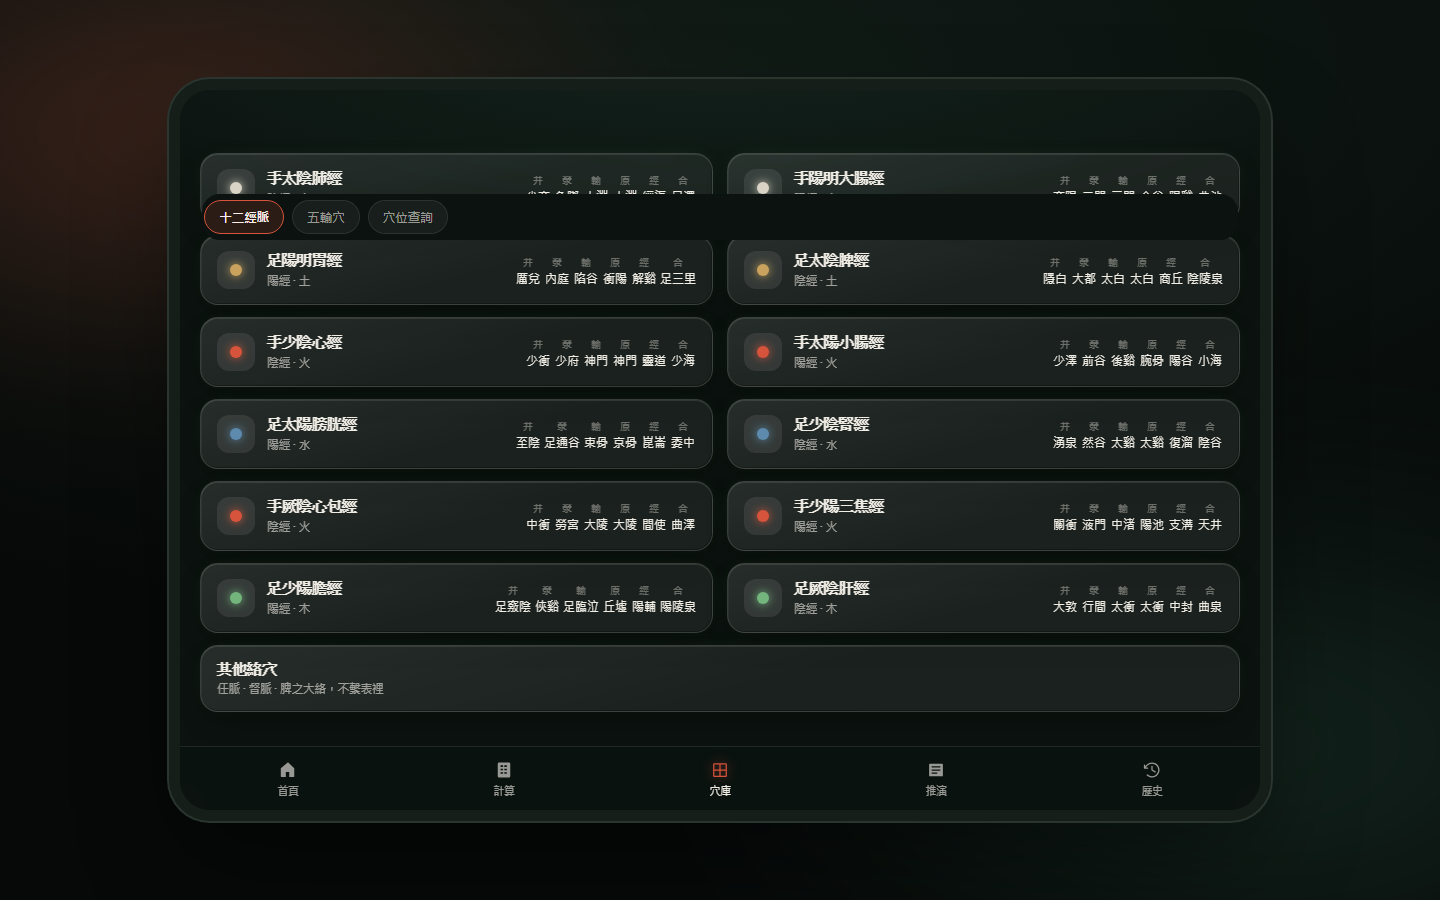
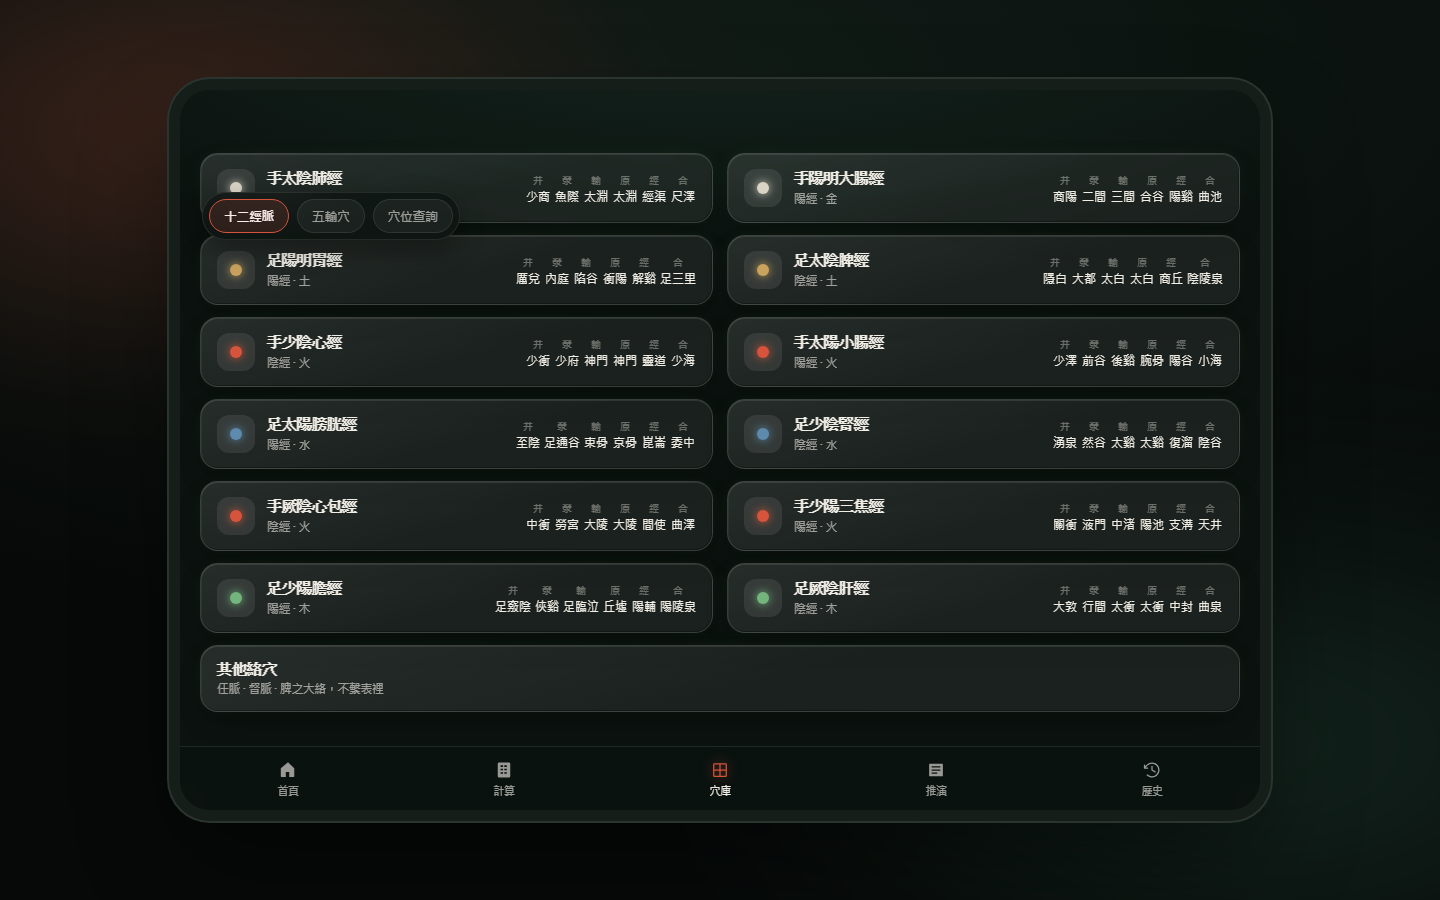
style(穴庫): 固定分頁列改磨砂玻璃膠囊，緊貼按鈕寬度

diff --git a/webapp/index.html b/webapp/index.html
@@ -5,7 +5,7 @@
 <meta name="viewport" content="width=device-width,initial-scale=1,viewport-fit=cover,maximum-scale=1">
 <meta name="theme-color" content="#0B120F">
 <title>五腧穴·子午流注計算</title>
-<link rel="stylesheet" href="css/styles.css?v=20261115w">
+<link rel="stylesheet" href="css/styles.css?v=20261115x">
 </head>
 <body>
 <div class="stage"><div id="app">
@@ -232,12 +232,12 @@
   </div>
 </div></div>
 
-<script src="vendor/lunar/lunar.js?v=20261115w"></script>
-<script src="js/i18n.js?v=20261115w"></script>
-<script src="js/data.js?v=20261115w"></script>
-<script src="js/calendar.js?v=20261115w"></script>
-<script src="js/engines.js?v=20261115w"></script>
-<script src="js/history.js?v=20261115w"></script>
-<script src="js/app.js?v=20261115w"></script>
+<script src="vendor/lunar/lunar.js?v=20261115x"></script>
+<script src="js/i18n.js?v=20261115x"></script>
+<script src="js/data.js?v=20261115x"></script>
+<script src="js/calendar.js?v=20261115x"></script>
+<script src="js/engines.js?v=20261115x"></script>
+<script src="js/history.js?v=20261115x"></script>
+<script src="js/app.js?v=20261115x"></script>
 </body>
 </html>

diff --git a/webapp/css/styles.css b/webapp/css/styles.css
@@ -324,8 +324,11 @@ input[type=date],select{background:var(--surface-2);border:1px solid var(--line)
 .step .axis-body{flex:1;min-width:0}
 
 .seg{display:flex;gap:8px;margin:2px 2px 12px}
-#pointTabs{position:sticky;top:12px;z-index:20;
-  background:var(--canvas);border-radius:var(--r-card);padding:6px 2px}
+#pointTabs{position:sticky;top:10px;z-index:20;width:max-content;align-self:flex-start;
+  background:rgba(11,18,15,.72);border:1px solid var(--line);
+  border-radius:var(--r-pill);padding:6px;
+  backdrop-filter:blur(16px) saturate(1.2);-webkit-backdrop-filter:blur(16px) saturate(1.2);
+  box-shadow:0 10px 26px rgba(0,0,0,.32)}
 .seg-btn{padding:8px 14px;border-radius:var(--r-pill);background:var(--surface);border:1px solid var(--line);font-size:12.5px;color:var(--dim)}
 .seg-btn.on{background:var(--key-soft);border-color:var(--key);color:var(--key-ink);font-weight:600}
 

diff --git a/進度說明.md b/進度說明.md
@@ -42,6 +42,7 @@
 - [x] 移除頂部手機殼擬真裝飾：假狀態列（時間、訊號、WiFi、電池方塊）與瀏海 pill 全數移除，狀態列時鐘 JS 一併刪除；頂欄上留白由 52px 壓回 16px，流程區上留白配合手機副標換行調為 92px。保留圓角殼體框線與陰影。Playwright 驗證寬版／手機無狀態列元素、首卡不被頂欄壓住、無 console 錯誤。
 - [x] 穴庫分頁鈕（十二經脈／五輸穴／穴位查詢）改 sticky 置頂：往下捲動時固定在頂欄下方，經脈列表在下方捲動，分頁鈕不跟著捲走；實色背景遮擋下方卡片。期間修正一處重複宣告 `topbarEl` 導致 app.js 解析失敗、面板切換與穴庫列表未渲染的問題。Playwright 驗證手機 390 與寬版 1440 分頁鈕捲動後位置固定、12 張經卡渲染、無 console 錯誤。
 - [x] 流注環新增拖滑手勢：Pointer 事件按著環面繞圈滑動，依指標相對圓心角度對應最近時辰格即時切換（保留原點選格位）；SVG 設 `touch-action:none` 避免垂直拖曳被頁面捲動吃掉。Playwright 滑鼠由頂部順時針拖至右側→卯時、再到底部→午時，順序正確，無 console 錯誤。
+- [x] 穴庫固定分頁列視覺優化：捲動置頂的分頁鈕由實色大卡塊改為緊貼按鈕寬度的磨砂玻璃膠囊（半透深底＋backdrop blur＋細邊框＋柔和投影），不再拉滿整寬、不壓一片深色方塊；手機 390 與寬版 1440 截圖確認，無 console 錯誤。
 
 ## 關鍵檔案位置
 
